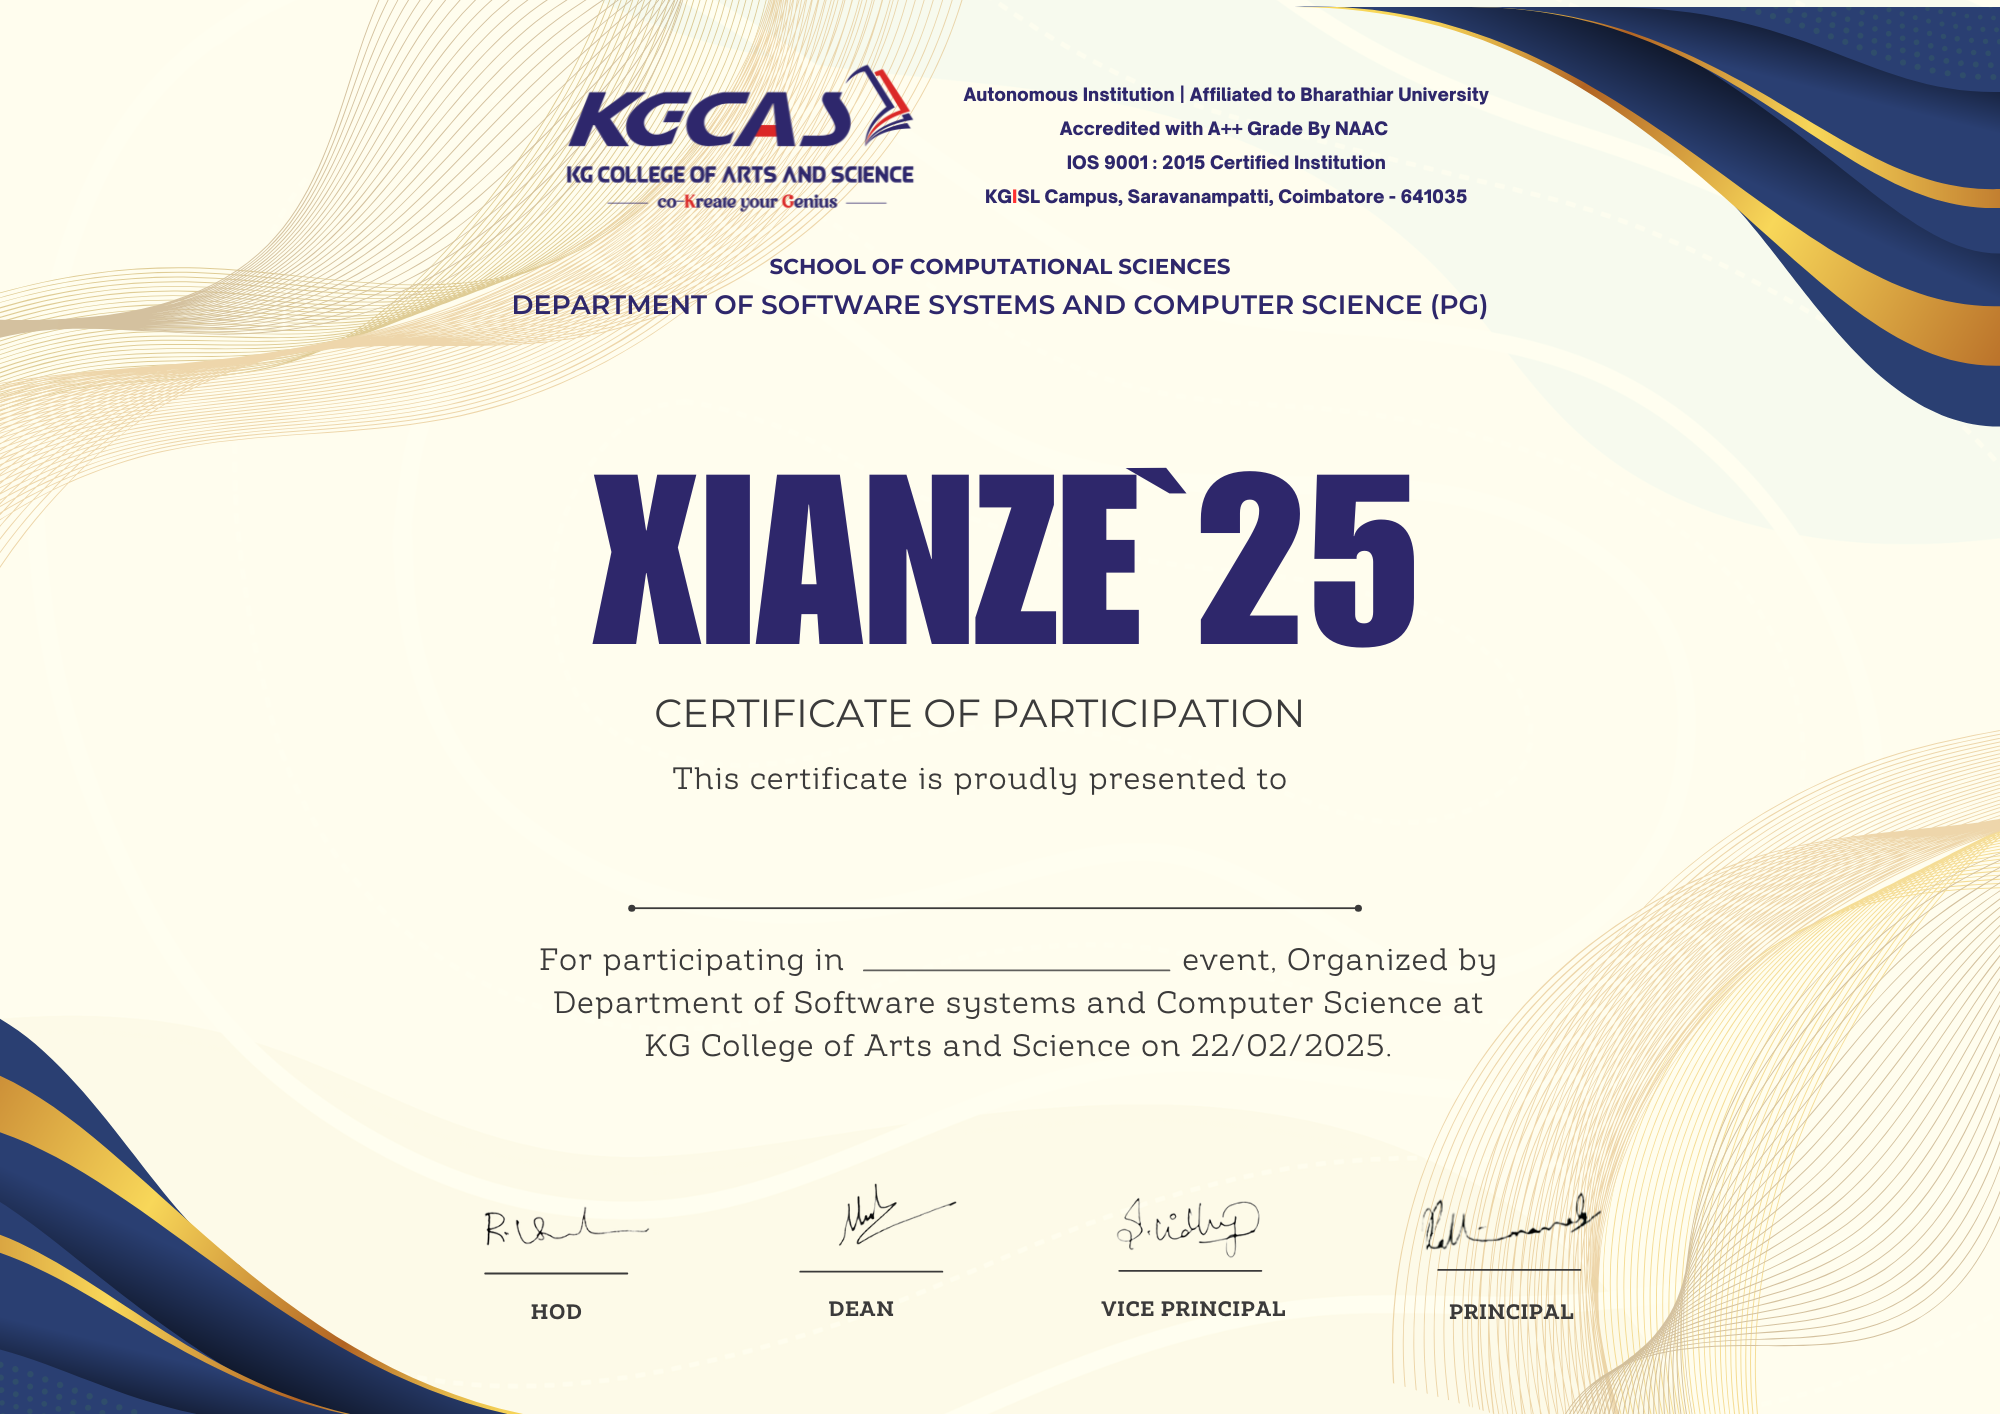
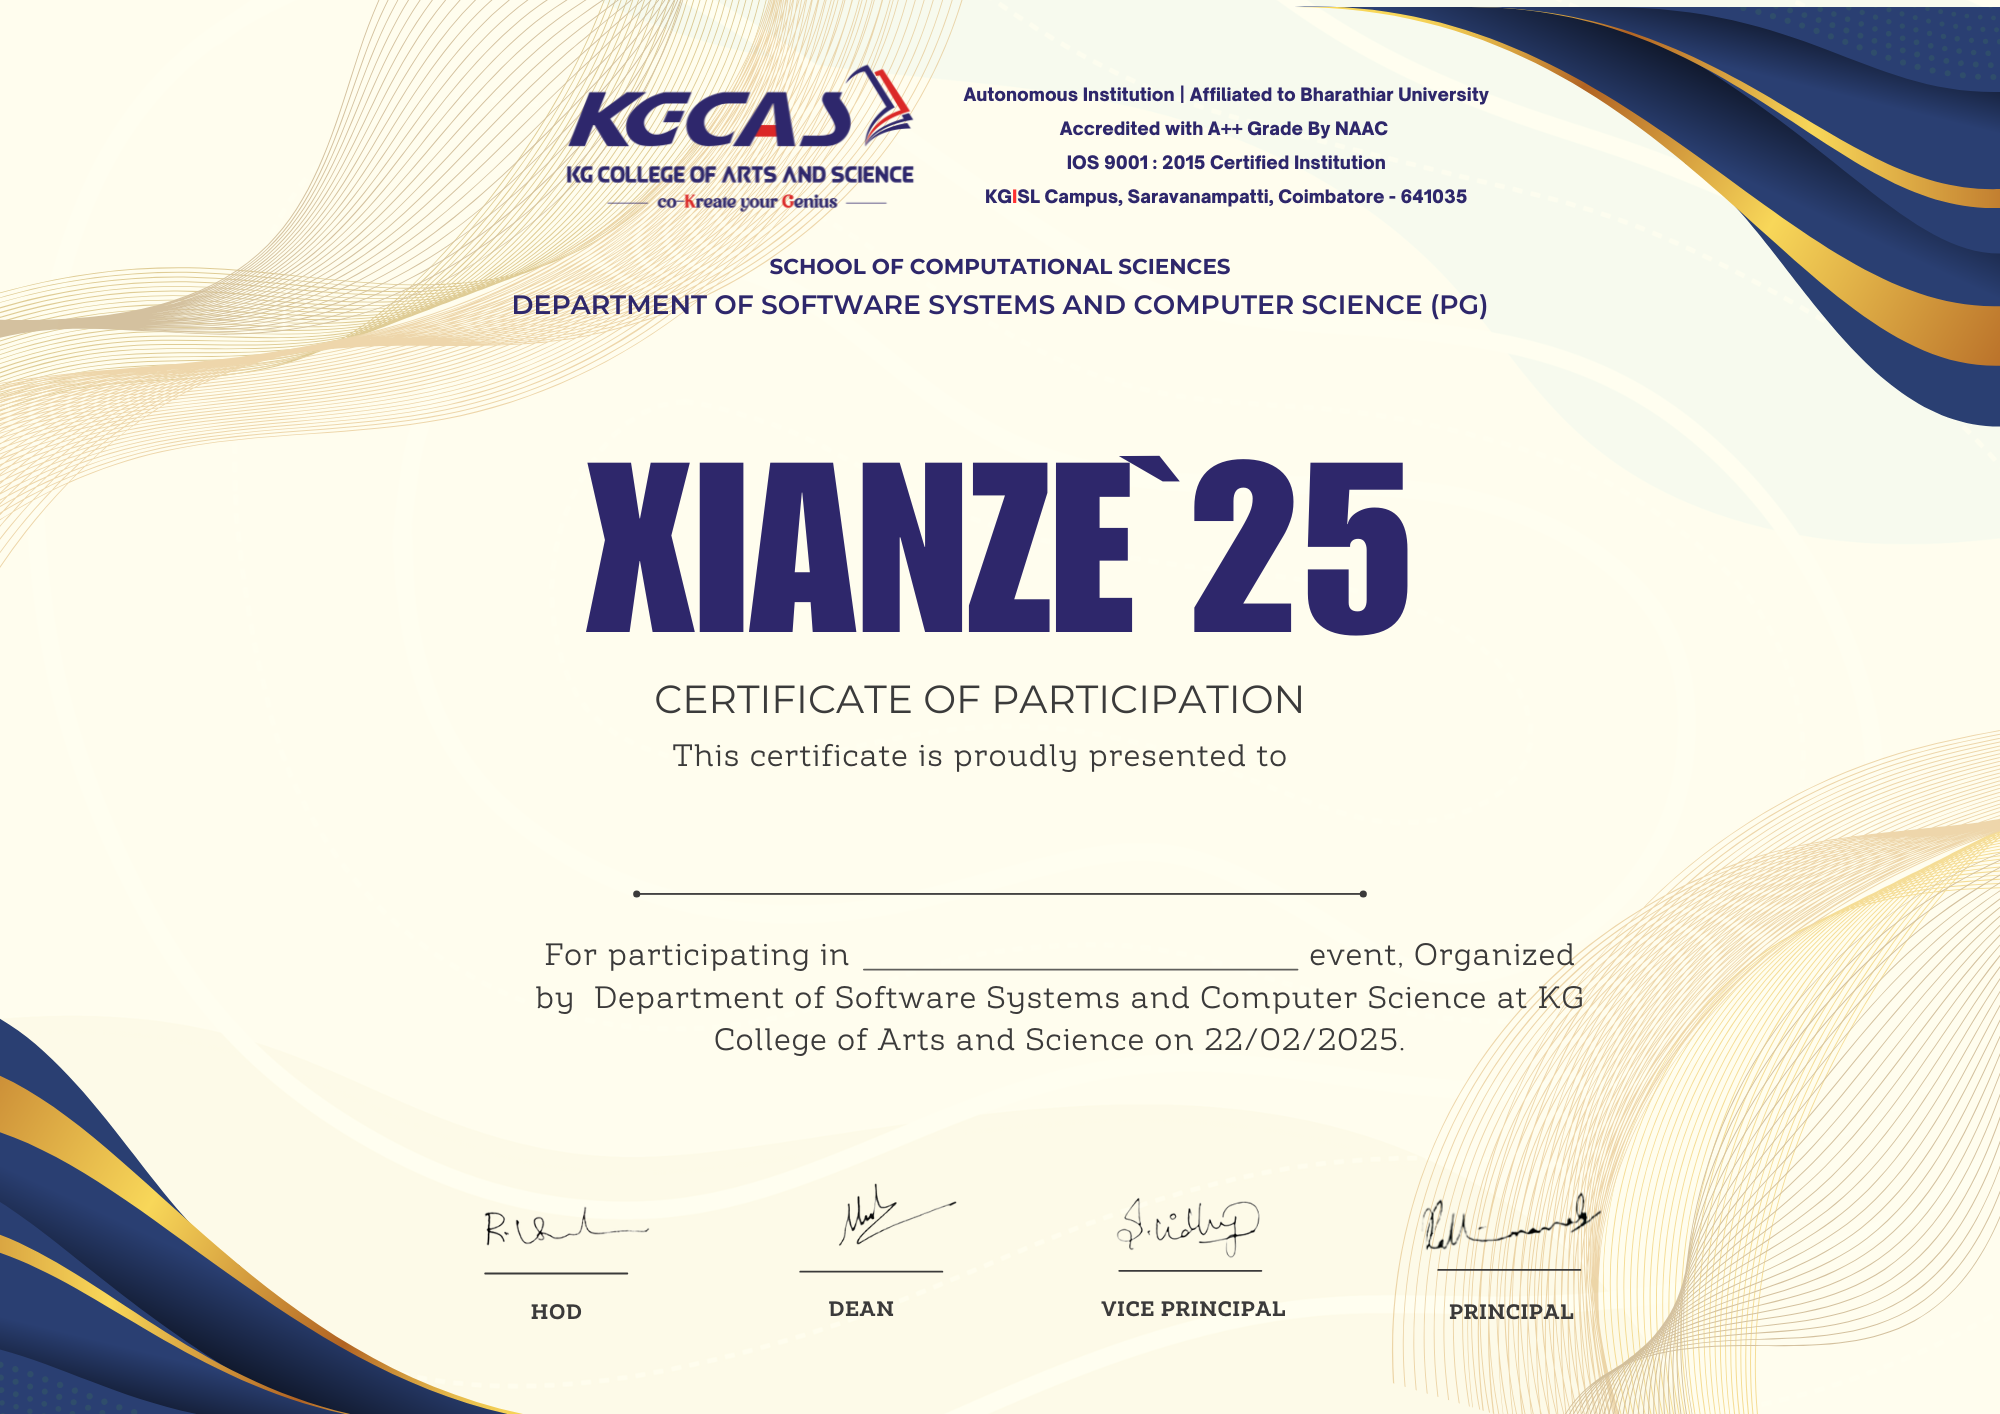
Updated get-certificate

Changed region(s): [[0.279, 0.3112, 0.713, 0.5601], [0.279, 0.6223, 0.775, 0.7468]]

diff --git a/src/sass/pages/certificate.scss b/src/sass/pages/certificate.scss
@@ -77,7 +77,7 @@
   .template-image {
     width: 100%;
     height: 100%;
-    object-fit: cover; // Ensures the image covers the container without distorting
+    object-fit: cover; 
   }
   
   .certificate-content {
@@ -92,18 +92,22 @@
     text-align: center;
     font-family: "Inter", sans-serif;
 
-    & >h2 {
-      font-size: 1rem;
+    & > h2 {
+      font-size: 1.5rem;
       font-weight: 400;
       position: absolute;
-      top: 60;
-  
+      top: 45;
+      left: -60;
+      color:#1e1e1e;
     }
     
     & > p {
       position: absolute;
-      top: 100;
-      font-size: 1.5rem;
+      top: 89;
+      left: -30;
+      font-size: 0.8rem;
+      width: 130px;
+      color: #1e1e1e;
     }
   }
   
@@ -117,15 +121,26 @@
   
     .certificate-content {
       font-size: 1.8rem;
+
+      & > h2 {
+        font-size: 1.5rem;
+        font-weight: 400;
+        position: absolute;
+        top: 53;
+        left: -55;
+        color:#1e1e1e;
+      }
+      
+      & > p {
+        position: absolute;
+        top: 100;
+        left: -40;
+        font-size: 0.8rem;
+        width: 130px;
+        color: #1e1e1e;
+      }
     }
-  
-    h2 {
-      font-size: 2.2rem;
-    }
-  
-    p {
-      font-size: 1.3rem;
-    }
+
   }
   
   @media (max-width: 768px) {
@@ -136,14 +151,24 @@
   
     .certificate-content {
       font-size: 1.6rem;
-    }
-  
-    h2 {
-      font-size: 2rem;
-    }
-  
-    p {
-      font-size: 1.2rem;
+
+      & > h2 {
+        font-size: 1.5rem;
+        font-weight: 400;
+        position: absolute;
+        top: 35;
+        left: -55;
+        color:#1e1e1e;
+      }
+      
+      & > p {
+        position: absolute;
+        top: 72;
+        left: -40;
+        font-size: 0.8rem;
+        width: 130px;
+        color: #1e1e1e;
+      }
     }
   }
   
@@ -156,14 +181,24 @@
   
     .certificate-content {
       font-size: 1.4rem;
-    }
-  
-    h2 {
-      font-size: 1.8rem;
-    }
-  
-    p {
-      font-size: 1rem;
+
+      & > h2 {
+        font-size: 1rem;
+        font-weight: 400;
+        position: absolute;
+        top: 15;
+        left: -40;
+        color:#1e1e1e;
+      }
+      
+      & > p {
+        position: absolute;
+        top: 39;
+        left: -50;
+        font-size: 0.5rem;
+        width: 130px;
+        color: #1e1e1e;
+      }
     }
   }
   
